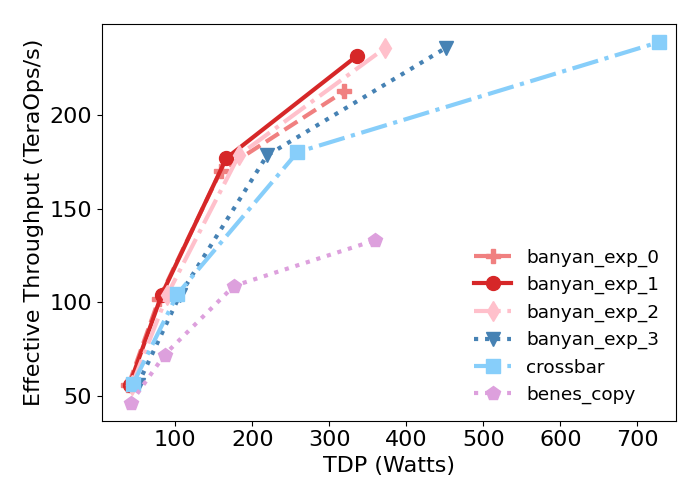
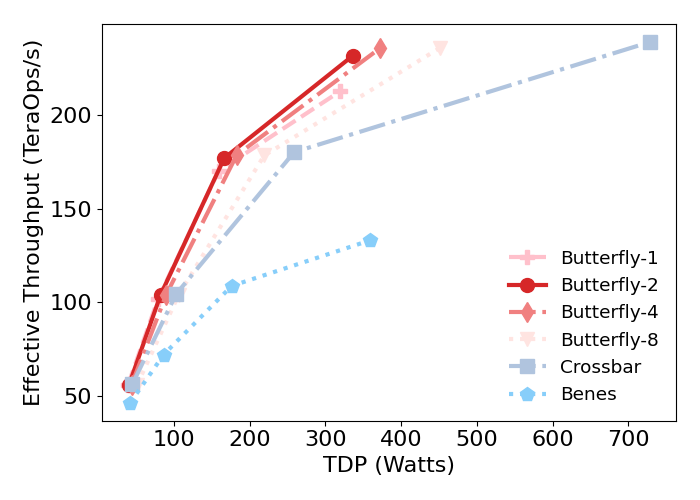
improvements on plot interconnect

diff --git a/plots/plot_interconnect.py b/plots/plot_interconnect.py
@@ -10,7 +10,7 @@ import sys
 import scipy.stats
 sys.path.append('.')
 
-colors = ["lightcoral","tab:red","pink","steelblue","lightskyblue","plum","gray"]
+colors = ["pink","tab:red","lightcoral","mistyrose","lightsteelblue","lightskyblue","gray","steelblue",]
 markers = ["P", "o", "d", "v", "s", "p",  "X", "D", "d", "s", "p", "P"]
 lines = ['--', '-', '-.', ':', '-.', ':','--', '-.', ':','--', '-.', ':']
 
@@ -61,7 +61,7 @@ if __name__=="__main__":
             print(fname + "/sim_result.json could not be opened!")
 
     interconn_keys = [128, 129, 130, 131, 16, 32]
-    labels = ["banyan_exp_0", "banyan_exp_1", "banyan_exp_2", "banyan_exp_3", "crossbar", "benes_copy"]
+    labels = ["Butterfly-1", "Butterfly-2", "Butterfly-4", "Butterfly-8", "Crossbar", "Benes"]
 
     no_arrays = [32,64,128,256]
     array_size = [32, 32]
@@ -81,17 +81,17 @@ if __name__=="__main__":
     e_compute = 0.4e-12 #J per MAC
     freq = 1e9
 
-    def get_interconn(key):
-        return labels[interconn_keys.index(key)]
+    # def get_interconn(key):
+    #     return labels[interconn_keys.index(key)]
 
-    cnt = {get_interconn(k): 0 for k in interconn_keys}
-    for j in out_jsons:
+    # cnt = {get_interconn(k): 0 for k in interconn_keys}
+    # for j in out_jsons:
 
-        cnt[get_interconn(j["interconnect_type"])] += 1
-        print(get_interconn(j["interconnect_type"]), " no_array: {}".format(j["no_array"]), " model: {}".format(j["model"]), " no_cycles: {}".format(j["no_cycles"]))
+    #     cnt[get_interconn(j["interconnect_type"])] += 1
+    #     print(get_interconn(j["interconnect_type"]), " no_array: {}".format(j["no_array"]), " model: {}".format(j["model"]), " no_cycles: {}".format(j["no_cycles"]))
 
 
-    print(cnt)
+    #print(cnt)
 
     total_power = {}
     for interconn in interconn_keys:
@@ -150,7 +150,7 @@ if __name__=="__main__":
     plt.ylabel('Effective Throughput (TeraOps/s)')
     plt.xlabel('TDP (Watts)')
     #plt.ylim(bottom=0, top=420)
-    plt.xlim(right=750)
+    #plt.xlim(right=750)
     plt.legend(fontsize='small',frameon=False)
     plt.tight_layout()
     plt.savefig("plots/interconn_throughput.png")
